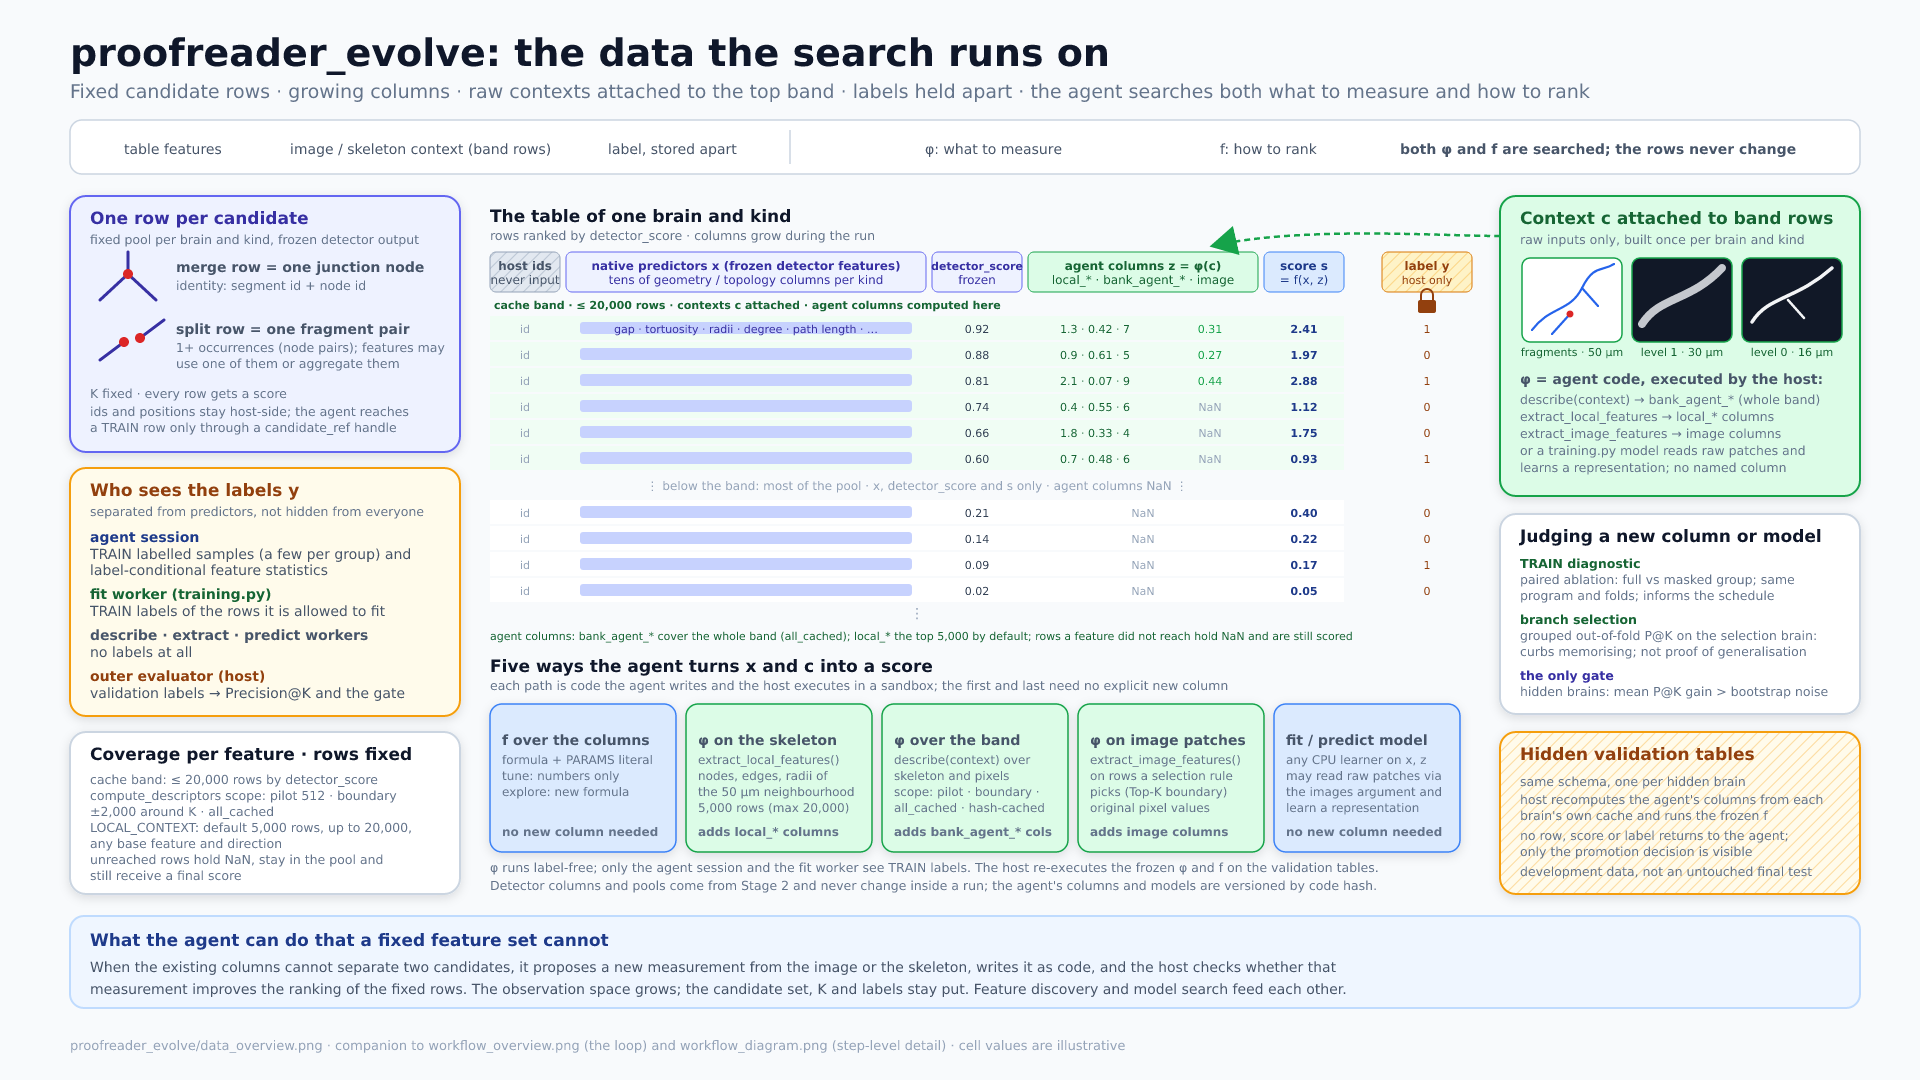
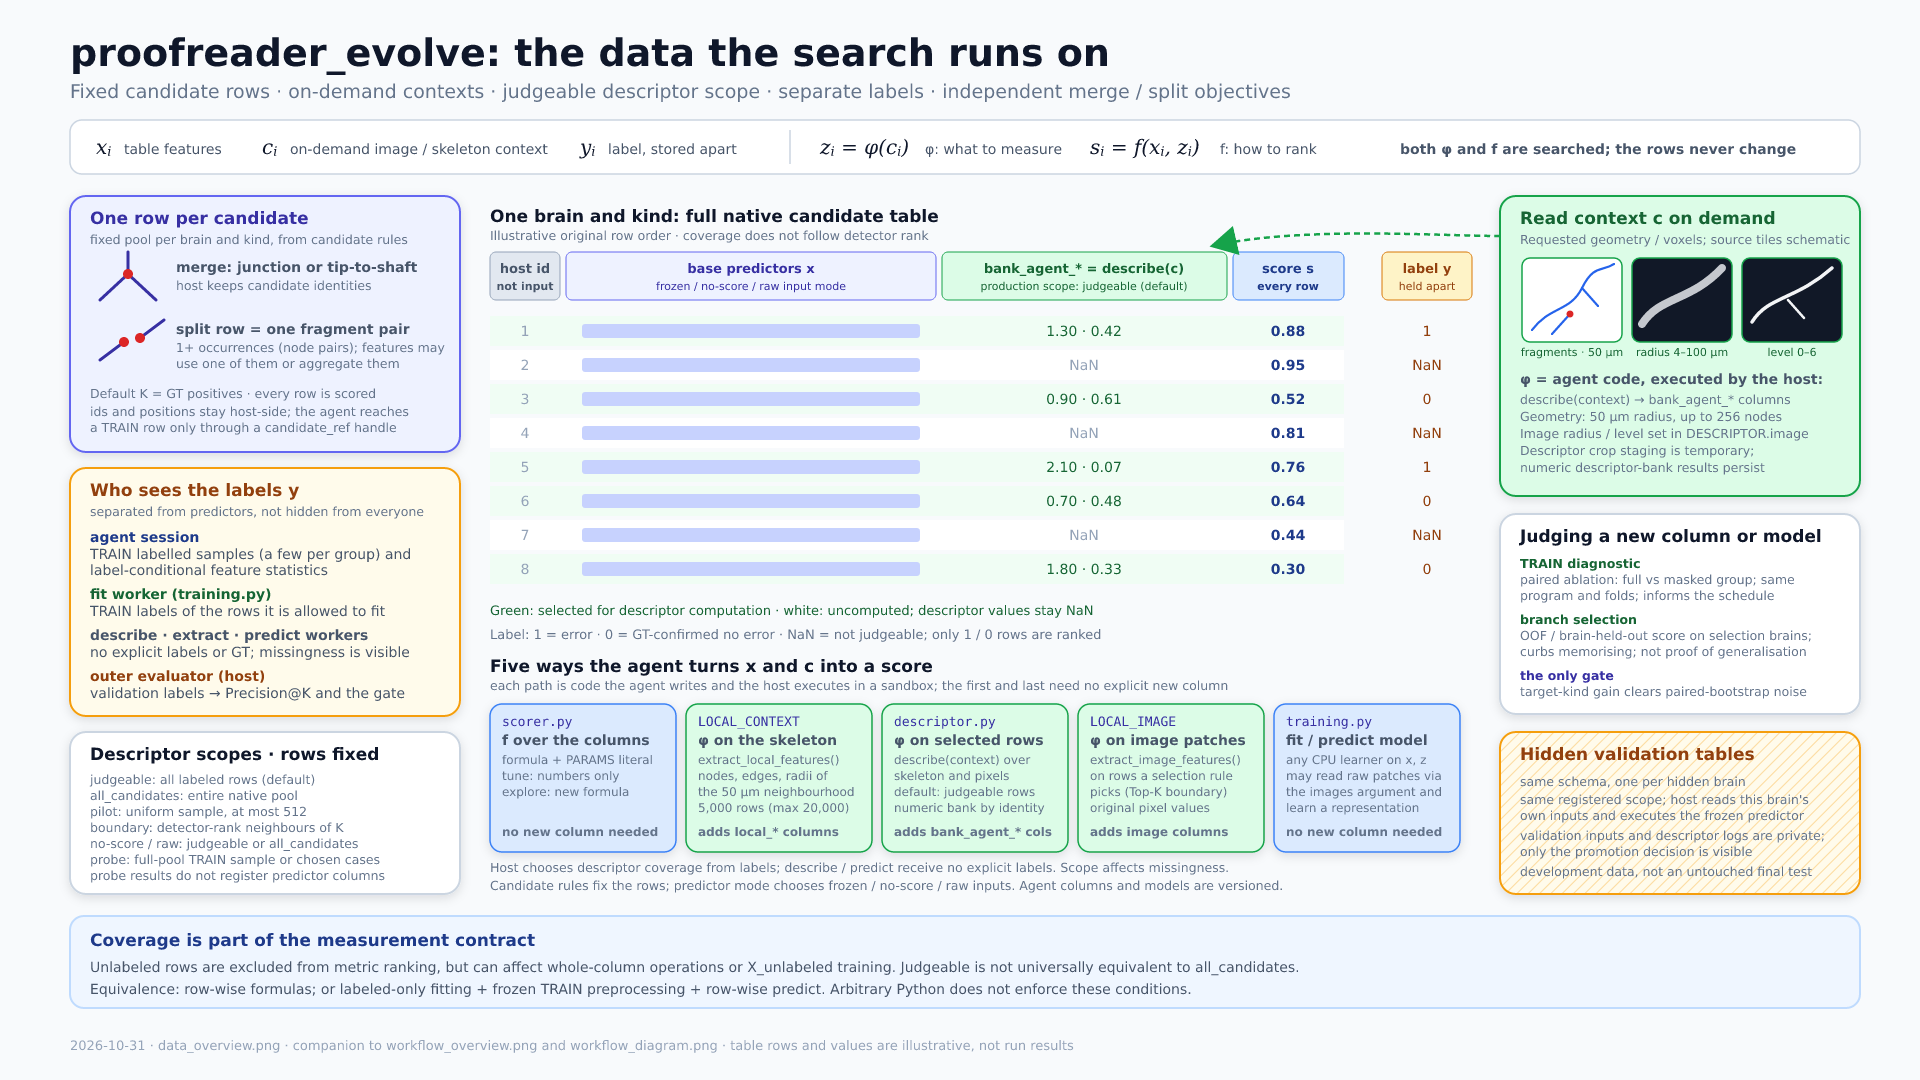
Refresh evolution workflow diagrams and documentation

diff --git a/proofreader_evolve/WORKFLOW_REVISION.md b/proofreader_evolve/WORKFLOW_REVISION.md
@@ -12,8 +12,8 @@ Image descriptor workflow (2026-10-29): `probe_descriptor` executes the current
 from each TRAIN brain. Optional previews use those exact inputs and share the
 existing eight-image allowance. The optional `DESCRIPTOR.image` selects radius
 and native pyramid level; legacy tiers remain supported. Probe, full TRAIN and
-frozen inference share input assembly and isolated execution. Custom full-run
-patches use byte-bounded temporary batches; only small probes persist patch misses.
+frozen inference share input assembly and isolated execution. Descriptor probes and full
+computations stage crops temporarily; numeric descriptor results persist for reuse.
 Diagnostics now include finite/missing/nonzero counts, min/max/std and example
 handles. Planning includes every TRAIN brain and reports the frozen-inference cost of
 every allowed scope, extrapolated from the other brains' row counts and TRAIN timings
@@ -52,41 +52,49 @@ Current scoring contract (2026-10-29, scoring v6): merge and split have independ
 objectives. Selection, feature ablation and promotion share the configured
 per-kind aggregation and positive floor, while selection and outer validation
 use separate data. The current rules are summarized below and in
-[`docs/stage3_evolution.md`](../docs/stage3_evolution.md). Dated sections and
-illustrations retain the design and observations at the time they were written;
-their older metric fields and version numbers do not specify the current contract.
+[`docs/stage3_evolution.md`](../docs/stage3_evolution.md). The three figures below show the
+current contract as of 2026-10-31. Dated historical sections retain the design and observations
+at the time they were written; their older metric fields and version numbers do not specify
+the current contract.
 
 ![Fixed-pool scorer evolution with TRAIN search and development-validation selection](workflow_diagram.png)
 
-A one-page visual overview (frozen inputs, the generation loop, outputs and the
-blindness boundary) is in [workflow_overview.png](workflow_overview.png); the data
-model the search runs on (fixed candidate rows, growing columns, contexts attached to
-the top band, labels held apart, the five paths from contexts to a score, and who sees
-labels) is in [data_overview.png](data_overview.png).
+A one-page visual overview (fixed inputs, the generation loop, outputs and the
+data-access boundary) is in [workflow_overview.png](workflow_overview.png). The data model
+is in [data_overview.png](data_overview.png): fixed candidate rows, mode-dependent predictors,
+on-demand geometry and configurable image crops, three-valued labels, and the `judgeable`
+descriptor scope. Every row is scored; only labeled rows enter metric ranking, while
+uncomputed rows can still affect cross-row operations or unlabeled-data training.
+Merge and split have separate objectives, with pooled hits / K across counted brains by
+default.
 
 ```mermaid
 flowchart TD
     K["Allocate the kind: pending follow-up › floor › recent gate-passing gain › headroom"] --> A
     A[TRAIN branches + matched failures + observed evidence] --> S[Priority follow-up or regular branch; assign required research]
     S --> B[Write formula or fit/predict program + parameters]
-    S --> V["Investigate: compute_descriptors runs agent describe(context) over the cached candidates; 3D analysis on a few TRAIN patches"]
+    S --> V["Investigate TRAIN: probe exact inputs or uniform full-pool samples; optional previews and local 3D analysis"]
+    V --> W["Optional plan: all TRAIN brains plus validation cost per allowed descriptor scope"]
+    V --> Z["Compute descriptors on demand: judgeable by default; numerical bank persists; temporary image crops"]
+    W --> Z
+    Z -->|Use measured descriptor columns| B
     V -->|Revise investigation within its separate budget| V
     V -->|Implement useful observations| B
-    B --> C["Classifier: three host-owned fold refits on selection brains -> out-of-fold score; then full TRAIN fit, frozen. Formula: scored once under the same fold budgets"]
+    B --> C["Classifier: host-owned grouped OOF / configured whole-brain holdout refits; then frozen full TRAIN fit. Formula: same selection brains and partitioned K"]
     B --> X[Paired feature removal on TRAIN only]
     X --> Y[Grouped OOF refits or descriptive formula comparison]
     Y --> B
-    C --> D["Selection precision (grouped out-of-fold on detector-naive brains), positive coverage and geometry-slice hits; in-sample TRAIN is a diagnostic"]
+    C --> D["Selection precision on detector-naive brains, positive coverage and geometry-slice hits; in-sample TRAIN is a diagnostic"]
     D -->|Within compute budget| B
     P -->|Continue or force exploration| A
     P -->|All kinds paused| Q[Stop; export accepted scorer]
     D --> E[Submit an exactly measured snapshot]
     E --> F{Measured submission and required research complete?}
-    F -->|Yes| U{Component differs from the accepted one?}
-    U -->|Yes| G[Evaluate every fixed development-validation brain once]
-    U -->|No, unchanged| H[Retain parent]
+    F -->|Yes| U{Already measured component or TRAIN score vectors?}
+    U -->|No| G["Frozen validation: compute referenced descriptors with their registered scope on each brain, then predict; inputs and descriptor logs stay private"]
+    U -->|Yes, repeated| H[Retain parent]
     F -->|No| H[Retain parent]
-    G --> I{Target-kind Precision@K improves and the paired-bootstrap lower bound of its gain is above zero?}
+    G --> I{Target-kind Precision@K gain exceeds the margin and its paired-bootstrap lower bound is above zero?}
     I -->|Yes| J[Promote candidate]
     I -->|No| H
     J --> R[Update parent; queue next same-kind follow-up]
@@ -97,8 +105,9 @@ flowchart TD
 1. Select one frozen merge-junction detector and one split-site detector from
    `autodiscovery-application/`, with their matching fitted joblibs.
 2. Prepare tables from matching `cache/dataset_cache_<brain>_mcl<N>_add.pkl`
-   caches. Call each detector's original universe builder and feature extractor;
-   preserve candidate identity and split occurrences without extra enumeration caps.
+   caches. Enumerate rows with `candidate_rules.py` under `candidate_pools.json`,
+   then apply the selected detector's feature extractor; preserve candidate identity
+   and split occurrences without extra enumeration caps.
    Enable only the native analysis groups owning columns in that fitted model's
    `feature_order` (including definedness columns). Shared groups remain intact;
    unknown or ambiguous feature ownership fails instead of enabling all groups.
@@ -1960,6 +1969,7 @@ records the motivating run and the original proposals.
 
 | Date / version | Change and motivation | Verification / future evidence |
 |---|---|---|
+| 2026-10-31 / current workflow figures | **Project-specific documentation update**, based on `native_pool.py`, `descriptor_context.py`, `descriptor_runs.py`, `fixed_pool_scoring.py` and the evolution driver. Revise `data_overview.png`, `workflow_diagram.png` and `workflow_overview.png` for fixed candidate rules, on-demand geometry and configurable images, default judgeable coverage, three-valued labels and indirect missing-row effects, per-scope planning, 3600-second calls, separate per-kind objectives, and private validation inputs/logs. Replace the old trial curves with current objective and budget rules; synchronize adjacent captions and Mermaid. Keep only the PNG outputs in the repository. | Rendered from temporary SVG sources with `resvg-py` in `panda` on n277 (allocation 27512210); visually checked labels, fonts, layout and arrows, including a shorter-label pass. Illustrative table values and source tiles are explicitly schematic. Documentation and figure changes only; no new evolution run or performance claim. |
 | 2026-10-31 / judgeable equivalence conditions | **Project-specific documentation correction**, based on `fixed_pool_scoring.evaluate`, `classifier_training.fit_classifier` and `model_execution.predict_model`, not a paper-derived mechanism. Uncomputed rows do not directly participate in metric ranking but can indirectly change scores through whole-column operations or unlabeled-data training. Classifier equivalence requires labeled-only fitting, frozen TRAIN-fitted preprocessing and row-wise independent predictions; arbitrary Python prediction does not enforce these conditions. Synchronize the descriptor guide, on-demand plan and repeated workflow descriptions. | Documentation-only revision. The preceding n277 review passed four targeted regressions and reproduced Precision@1 of 1 for `all_candidates` versus 0 for `judgeable` with the same percentile-combination formula through the real scorer worker. This is a synthetic counterexample, not an evolution-run result. |
 | 2026-10-31 / judgeable scope: scope-dependent paths and per-scope inference estimate | **Project-specific correction** (review of the 2026-10-29 judgeable entry). (1) The claim that the judgeable scope measures identically to a full computation was too strong: `fixed_pool_scoring.evaluate` hands the whole table to `score_candidates`, whose whole-column statistics (ranks, quantiles, means) over a `bank_agent_*` column are taken over the computed rows only, and `classifier_training.fit_classifier` stages up to 100,000 NaN-label rows per brain as `X_unlabeled`, which carry NaN in those columns; one historical best scorer (`precision_20261011_234710_sssj3jpw`) uses `np.quantile`/`nanstd`, and `precision_20261025_193120_5to8nx13` generations 11/15/16/19/20 declared `X_unlabeled`. The measurement stays self-consistent (one scope on TRAIN, selection and validation); `descriptor_guide.md`, `classifier_guide.md`, `plans/on_demand_contexts.md` and this log now say so. (2) `plan_descriptor_run` reported one frozen-inference estimate labelled `judgeable` while `ensure_descriptors` reuses the scope of the registered descriptor, so an `all_candidates` computation was under-estimated by the pool-to-labeled ratio (validation 2.13 M / 5.14 M against 37 k / 27 k) and would then fail the per-brain budget at submission. `DescriptorRuns.inference_rows` counts every allowed scope on the validation tables (host-side), the driver passes the dict as `frozen_inference_rows`, and the plan returns `frozen_inference[scope]` with rows, total and largest-brain seconds and `fits_per_brain_budget` against the per-call budget. | `tests/test_descriptor_context.py::test_judgeable_rows_are_visible_to_whole_column_statistics_and_unlabeled_fits` (a z-scored formula gives different labeled-row scores from the judgeable and the full registration through the real scorer worker; a `fit` declaring `X_unlabeled` receives finite descriptor values on `X_train` and NaN on every unlabeled row), `test_descriptor_probe.py` (per-scope inference estimate, an `all_candidates` case flagged against the per-call budget), `test_descriptor_compute.py` (the driver passes every allowed scope). Module runs recorded in the commit message. No evolution run yet. |
 | 2026-10-31 / descriptor call budget | **Project-specific configuration change**, motivated by the on-demand timings in `plans/on_demand_contexts.md`, not a paper-derived mechanism. Raise the default per-call descriptor wall budget from 1800 to 3600 seconds in `cli/run_precision_evolution.py` and the `harness/train_experiments.py` fallback. This covers the complete TRAIN call and each frozen validation-brain descriptor computation; the generation default remains 5400 seconds and explicit CLI overrides remain supported. | Verified on n277 in `panda`: CLI parsing and help, session fallback expression, and explicit overrides; the generation default remains 5400 seconds. No new throughput or ranking result claimed. |
